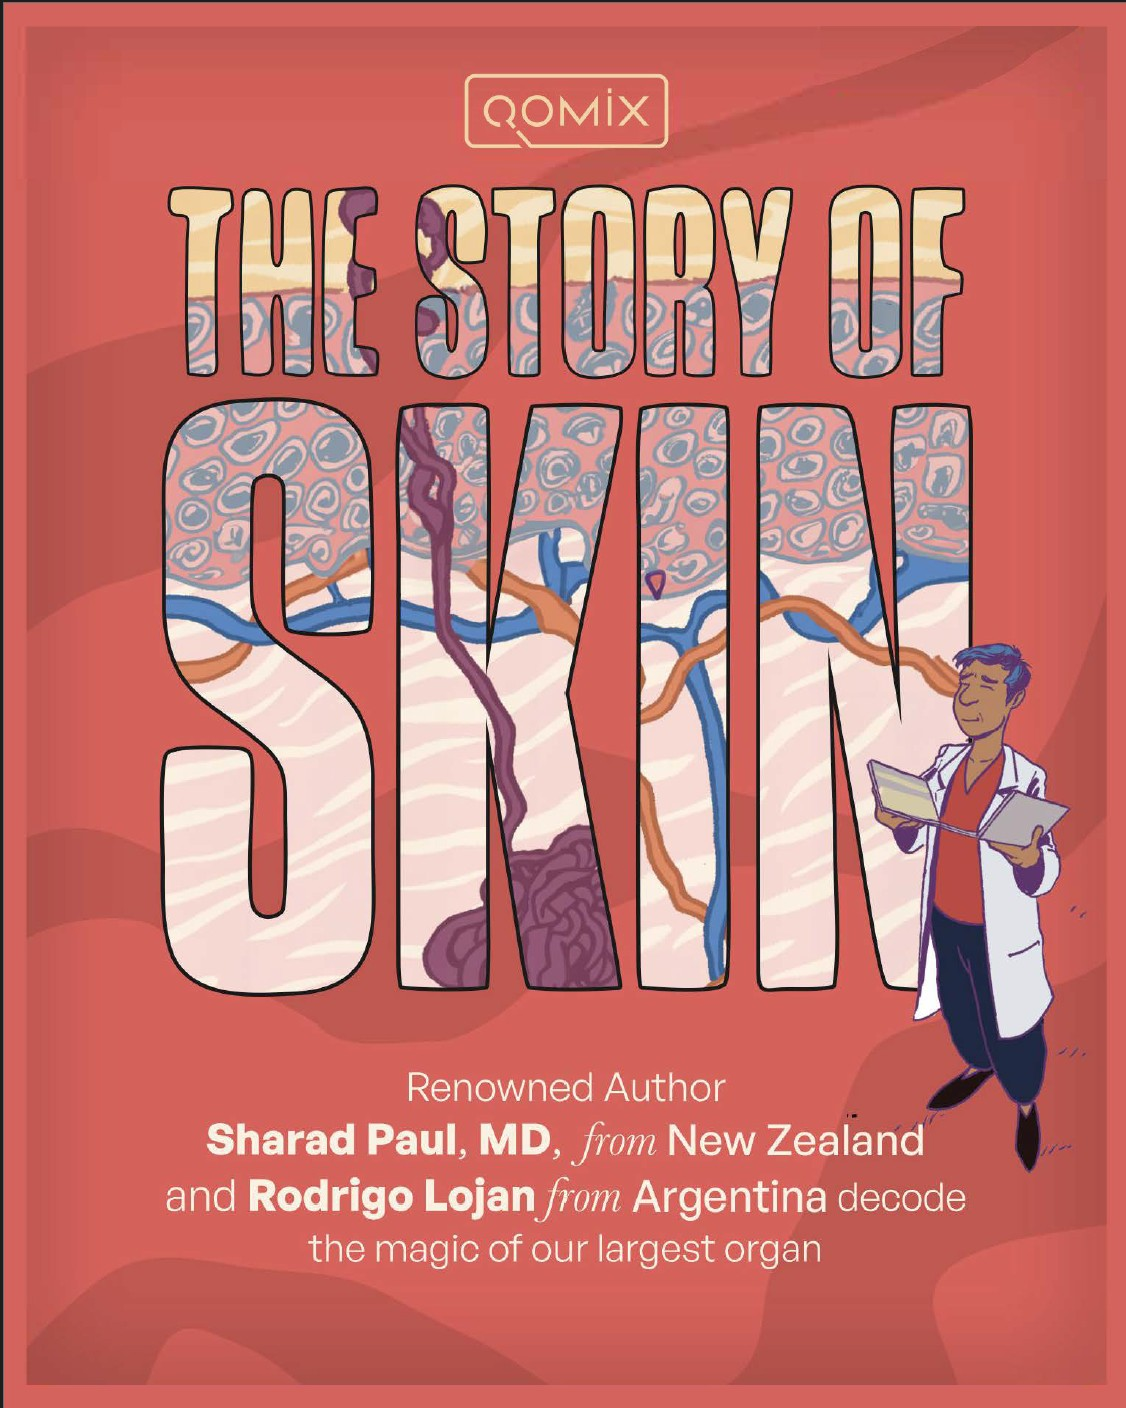
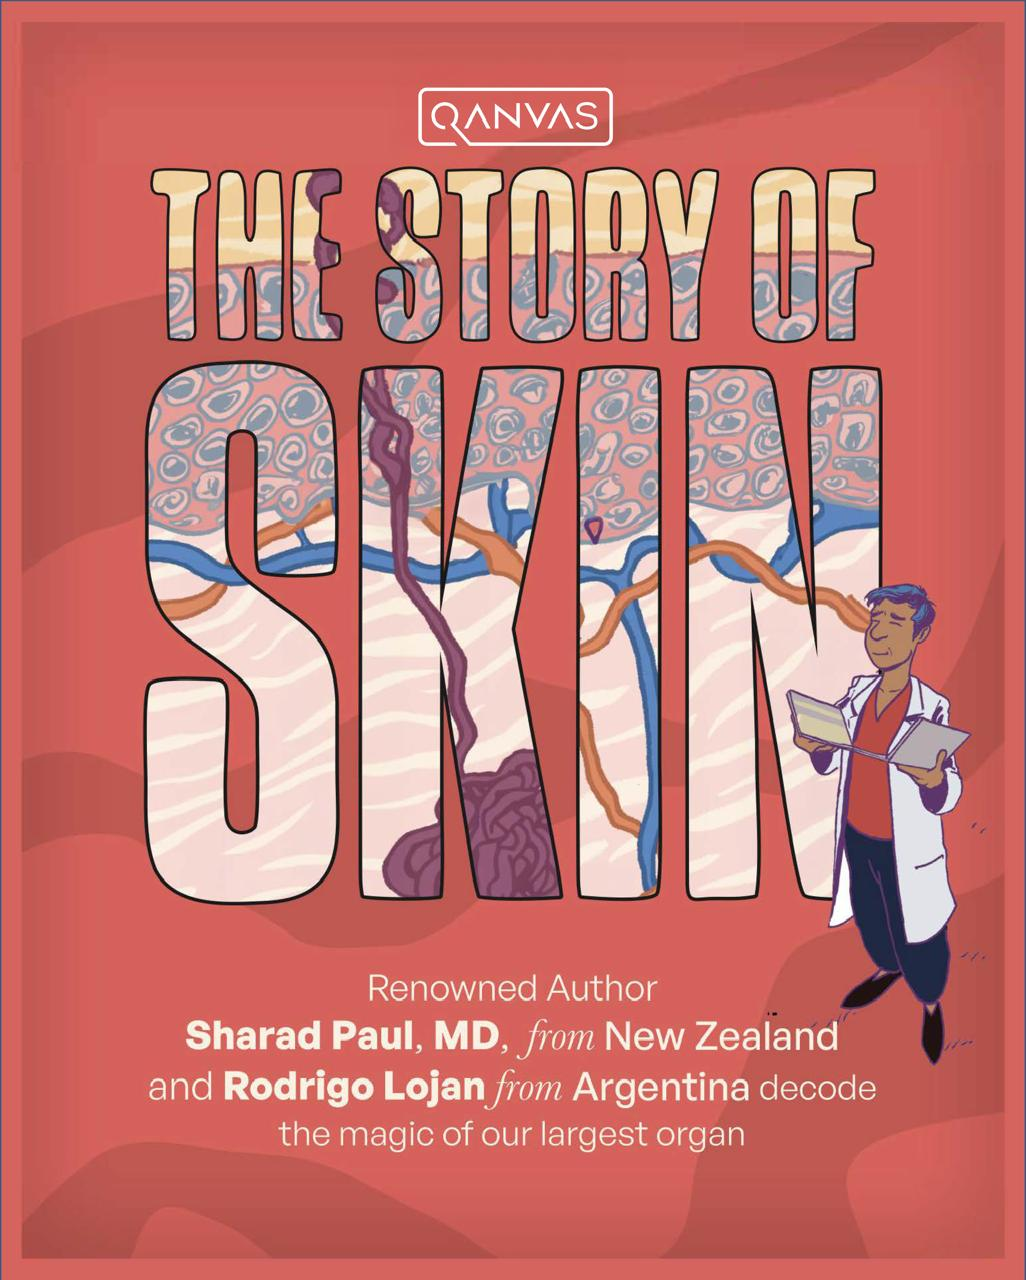
Final Changes Done

diff --git a/pages/Team.tsx b/pages/Team.tsx
@@ -102,7 +102,7 @@ const Team: React.FC = () => {
                 <div className={`flex-1 text-center lg:text-left ${index % 2 !== 0 ? 'lg:text-right' : ''}`}>
                   <p className="text-sm font-semibold tracking-widest text-ink/60 uppercase">{member.role}</p>
                   <h2 className="mt-2 text-4xl md:text-5xl font-serif text-ink">{member.name}</h2>
-                  <p className="mt-4 text-lg text-ink/80 max-w-xl mx-auto lg:mx-0 leading-relaxed">{member.bio}</p>
+                  <p className={`mt-4 text-lg text-ink/80 leading-relaxed ${index % 2 !== 0 ? 'max-w-xl mx-auto lg:mx-0 lg:ml-auto' : 'max-w-xl mx-auto lg:mx-0'}`}>{member.bio}</p>
                 </div>
               </motion.div>
             );
@@ -118,7 +118,7 @@ const Team: React.FC = () => {
           </motion.div>
 
           <motion.div
-            className="grid grid-cols-1 md:grid-cols-2 lg:grid-cols-3 gap-8 mt-12 max-w-6xl mx-auto"
+            className="flex justify-center gap-8 mt-12 flex-wrap"
             variants={containerVariants}
             initial="hidden"
             whileInView="visible"
@@ -129,7 +129,7 @@ const Team: React.FC = () => {
               return (
                 <motion.div
                   key={member.name}
-                  className="bg-paper p-8 rounded-lg border border-panel-dark text-left flex flex-col"
+                  className="bg-paper p-8 rounded-lg border border-panel-dark text-center flex flex-col items-center w-80 max-w-sm"
                   variants={itemVariants}
                 >
                   <img
@@ -140,7 +140,7 @@ const Team: React.FC = () => {
                       if (imgSrc !== '/assets/team/placeholder.jpg') setImgSrc('/assets/team/placeholder.jpg');
                     }}
                   />
-                  <div className="flex-grow">
+                  <div className="flex-grow text-center">
                     <p className="text-xs font-semibold tracking-widest text-ink/60 uppercase">{member.role}</p>
                     <h3 className="mt-1 text-2xl font-serif text-ink">{member.name}</h3>
                     <p className="mt-3 text-base text-ink/80 leading-relaxed">{member.bio}</p>

diff --git a/index.html b/index.html
@@ -3,6 +3,7 @@
 <head>
   <meta charset="UTF-8">
   <meta name="viewport" content="width=device-width, initial-scale=1.0">
+  <link rel="icon" type="image/svg+xml" href="/favicon.svg">
   <title>Auteur Global | Creative Syndicate for the Future of Storytelling</title>
   <meta name="description" content="Auteur Global is a creative syndicate reimagining literature, comics, and visual storytelling for a new era. Discover Qomix Classics, Qanvas, and more." />
   <!-- Open Graph / Facebook -->
@@ -81,7 +82,6 @@
     }
   }
   </script>
-<link rel="stylesheet" href="/index.css">
 </head>
 <body class="bg-paper overflow-x-hidden">
   <div id="root"></div>

diff --git a/pages/ComingSoon.tsx b/pages/ComingSoon.tsx
@@ -13,7 +13,7 @@ const ComingSoon: React.FC<ComingSoonProps> = ({ pageName }) => {
   const handleSubmit = (e: React.FormEvent) => {
     e.preventDefault();
     if (email) {
-      console.log(`Email submitted for notification: ${email}`);
+      // Email would be sent to notification service in production
       setSubmitted(true);
     }
   };

diff --git a/pages/Contact.tsx b/pages/Contact.tsx
@@ -42,7 +42,7 @@ const Contact: React.FC = () => {
 
   const handleSubmit = (e: React.FormEvent<HTMLFormElement>) => {
     e.preventDefault();
-    console.log('Form data submitted:', formData);
+    // Form data would be sent to backend API in production
     setSubmitted(true);
   };
 
